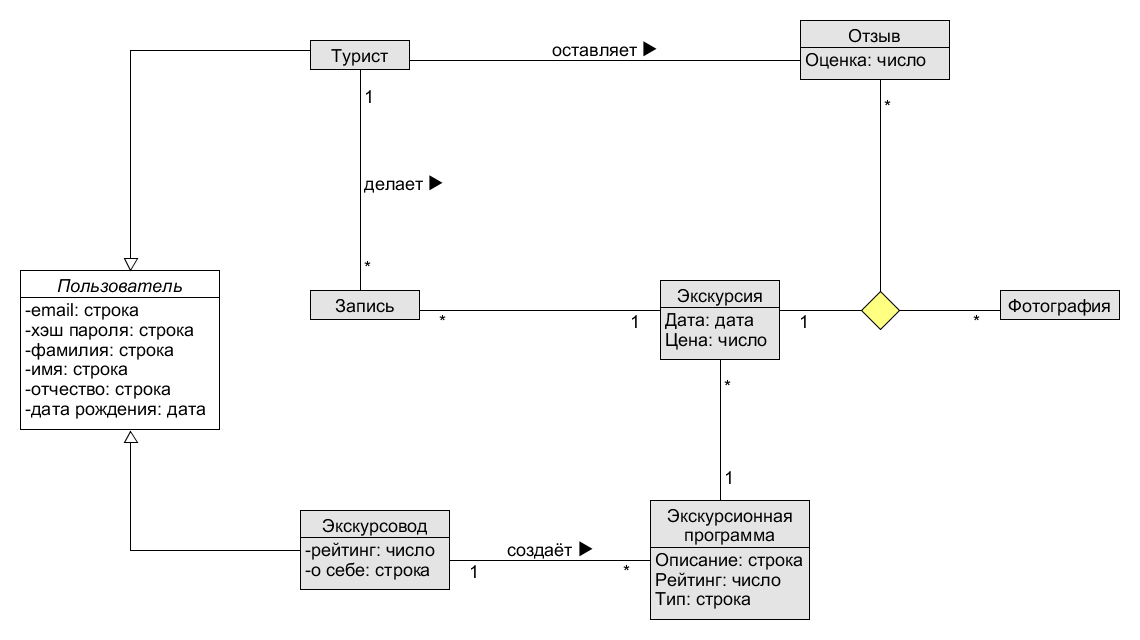
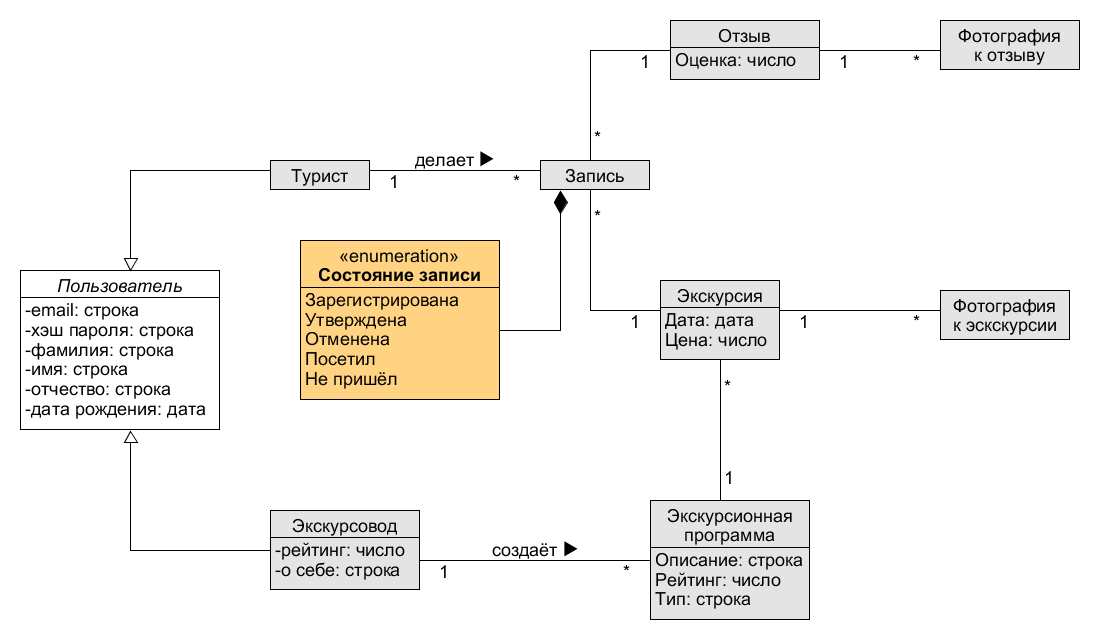
team-07: update class diagram v2 and terms dictionary

diff --git a/team-07/Terms_dictionary.md b/team-07/Terms_dictionary.md
@@ -2,26 +2,14 @@
 
 * Пользователь - субъект системы, который регистрируется и авторизируется в ней по email'у и паролю. Обладает ФИО и датой рождения.
 
-## Экскурсовод
+* Экскурсовод - пользователь, создающий экскурсионные программы. Обладает рейтингом и информацией "о себе". Под рейтингом экскурсовода понимается среднее арифметическое по всем рейтингам за свои экскурсионные программы.
 
-* Экскурсовод - пользователь, создающий экскурсионные программы. Обладает рейтингом и информацией "о себе".
-
-* Экскурсионная программа - сущность, обладающая описанием, рейтингом и типом. На её основе экскурсовод создаёт экскурсии.
+* Экскурсионная программа - сущность, обладающая описанием, рейтингом и типом. На её основе экскурсовод создаёт экскурсии. Под рейтингом экскурсионной программы понимается среднее арифметическое по всем оценкам за экскурсии соответствующей программы.
 
 * Экскурсия - сущность, обладающая датой и ценой. К ней экскурсовод может прикрепить множество фотографий.
-
-* Рейтинг экскурсионной программы - среднее арифметическое по всем оценкам за экскурсии соответствующей программы.
-
-* Рейтинг экскурсовода - среднее арифметическое по всем рейтингам за свои экскурсионные программы.
-
-## Турист
 
 * Турист - пользователь, который делает записи на экскурсии. На посещённые экскурсии оставляет отзывы, в частности оценки.
 
 * Запись - сущность, которая создаётся туристом и привязывается к экскурсии.
 
 * Отзыв - сущность, обладающая оценкой. Оставляется туристом на посещённую им экскурсию. К нему турист может прикрепить множество фотографий.
-
-* Оценка - атрибут отзыва. Определяется туристом при создании отзыва.
-
-* Фотография - сущность, которая прикрепляется туристом к отзыву или экскурсоводом на экскурсию.
